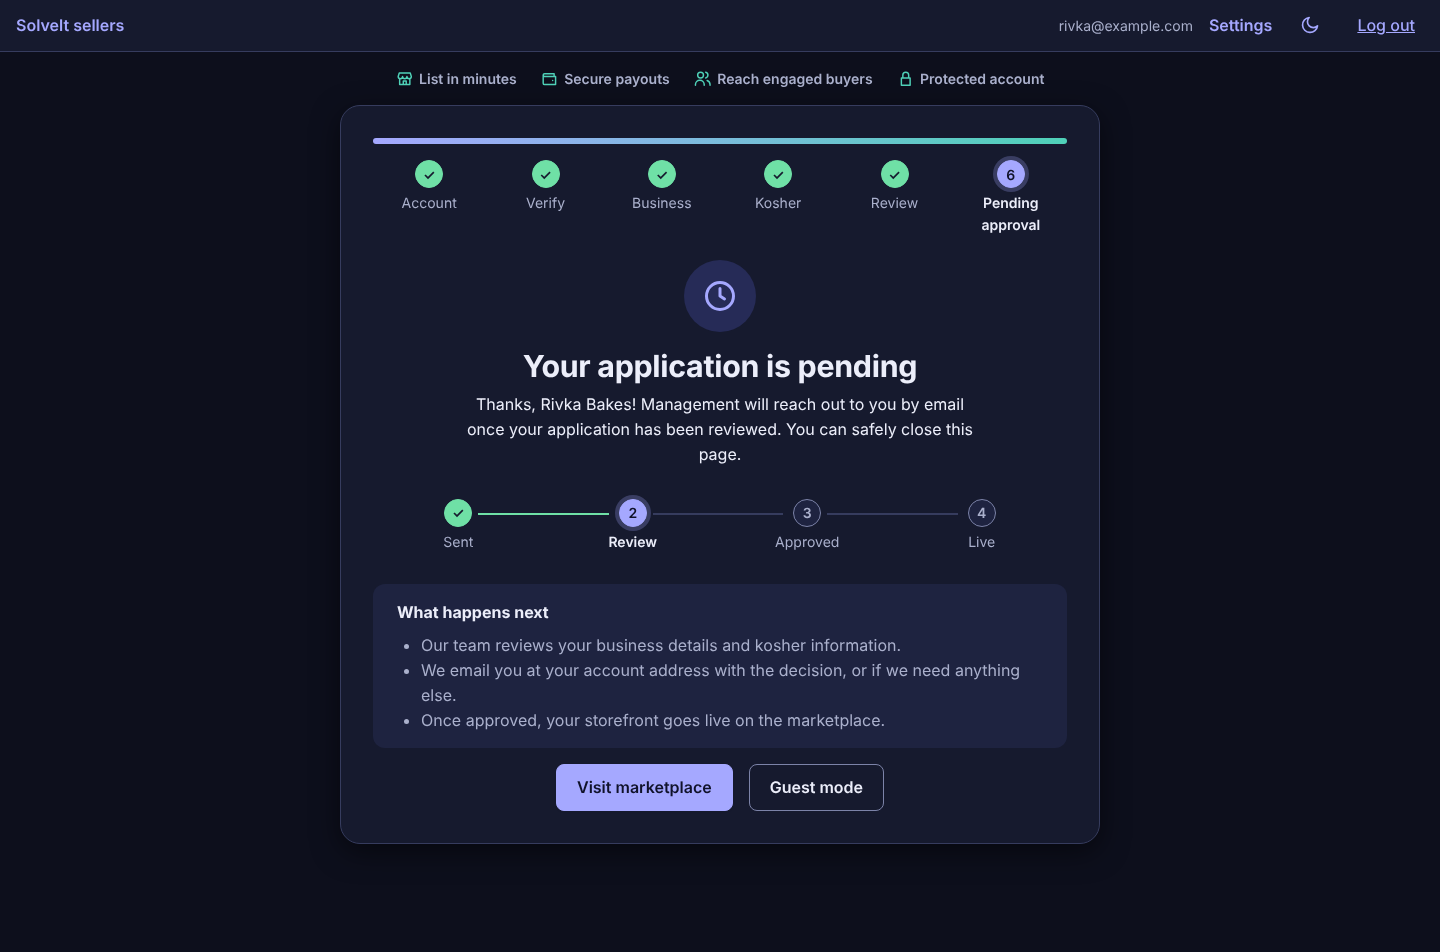
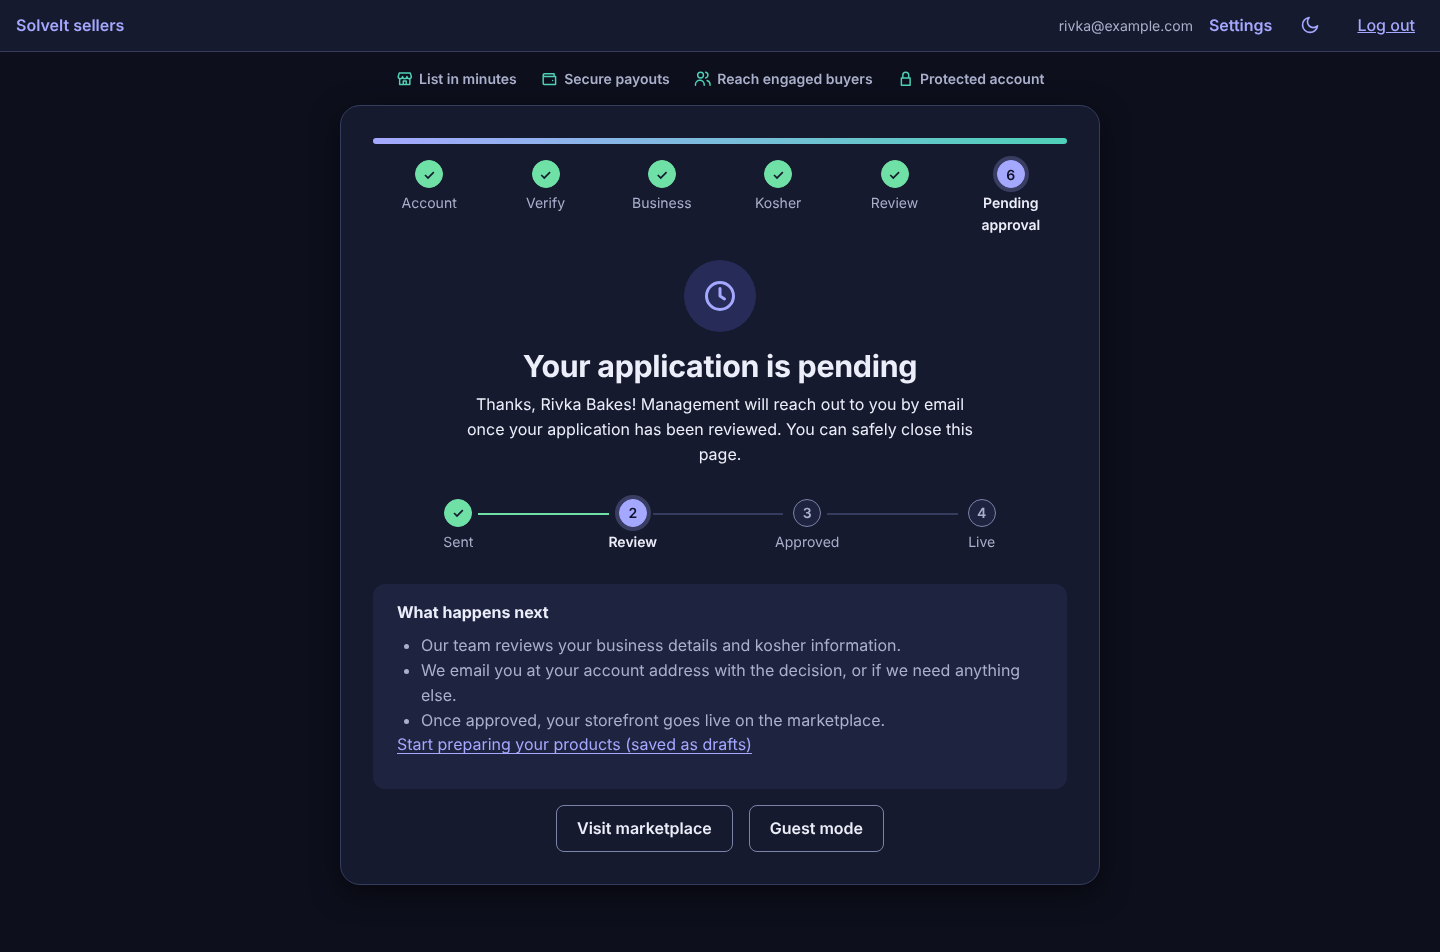
Approved/Live owners land on /products; status-aware pending screen (You're all set / drafts link, accurate copy); tests, e2e, screenshots, docs
Claude-Session: https://claude.ai/code/session_018hZb8p3U4e1ZXzoHRqf6yf

Changed region(s): [[0.25, 0.7616, 0.75, 0.9139]]

diff --git a/src/pages/wizard.test.tsx b/src/pages/wizard.test.tsx
@@ -199,6 +199,59 @@ describe('wizard navigation and guards', () => {
     expect(within(tracker).getByText('Approved').closest('li')).toHaveAttribute('aria-current', 'step')
   })
 
+  describe('pending screen by status', () => {
+    const open = async (status: string, note: string | null = null) => {
+      backend(application({ status, statusNote: note, draftStep: 5 }))
+      renderAt(wizardRoutes, '/signup/pending')
+      await screen.findByRole('heading', { level: 1 })
+    }
+    const productsLinks = () => screen.queryAllByRole('link').filter((l) => l.getAttribute('href') === '/products')
+
+    it('Live: "You\u2019re all set" with the primary products link and the live copy, no "What happens next"', async () => {
+      await open('Live')
+      expect(screen.getByRole('heading', { name: 'Your shop is live' })).toBeInTheDocument()
+      expect(screen.getByText(/Your shop is live on the marketplace/)).toBeInTheDocument()
+      expect(screen.getByRole('heading', { name: /You.re all set/ })).toBeInTheDocument()
+      const go = screen.getByRole('link', { name: 'Go to your products' })
+      expect(go).toHaveAttribute('href', '/products'); expect(go).toHaveClass('primary')
+      expect(screen.queryByRole('heading', { name: 'What happens next' })).not.toBeInTheDocument()
+      expect(screen.queryByRole('link', { name: /Start preparing your products/ })).not.toBeInTheDocument()
+      expect(screen.getByRole('link', { name: 'Visit marketplace' })).not.toHaveClass('primary') // one primary action per page
+    })
+
+    it('Approved: same, but says "approved \u2014 you can now publish", not that the shop is live', async () => {
+      await open('Approved')
+      expect(screen.getByText(/approved \u2014 you can now publish products/)).toBeInTheDocument()
+      expect(screen.queryByText(/shop is live/i)).not.toBeInTheDocument()
+      expect(screen.getByRole('heading', { name: /You.re all set/ })).toBeInTheDocument()
+      expect(screen.getByRole('link', { name: 'Go to your products' })).toHaveAttribute('href', '/products')
+      expect(screen.queryByRole('heading', { name: 'What happens next' })).not.toBeInTheDocument()
+    })
+
+    it('PendingReview: "What happens next" and a secondary drafts link, but no "Go to your products"', async () => {
+      await open('PendingReview')
+      expect(screen.getByRole('heading', { name: 'What happens next' })).toBeInTheDocument()
+      const drafts = screen.getByRole('link', { name: 'Start preparing your products (saved as drafts)' })
+      expect(drafts).toHaveAttribute('href', '/products'); expect(drafts).not.toHaveClass('primary')
+      expect(screen.queryByRole('link', { name: 'Go to your products' })).not.toBeInTheDocument()
+      expect(screen.queryByRole('heading', { name: /You.re all set/ })).not.toBeInTheDocument()
+    })
+
+    it('NeedsInfo sellers are sent back to the wizard (the guard never shows them the pending page)', async () => {
+      backend(application({ status: 'NeedsInfo', statusNote: 'Please upload a certificate', draftStep: 5 }))
+      renderAt(wizardRoutes, '/signup/pending')
+      expect(await screen.findByText('business step')).toBeInTheDocument()
+      expect(screen.queryByRole('link', { name: /products/i })).not.toBeInTheDocument()
+    })
+
+    it.each(['Rejected', 'Suspended'])('%s: no products links at all', async (status) => {
+      await open(status)
+      expect(productsLinks()).toHaveLength(0)
+      expect(screen.queryByRole('link', { name: /products/i })).not.toBeInTheDocument()
+      expect(screen.getByRole('status')).toBeInTheDocument()
+    })
+  })
+
   it('shows a progress bar for the current step', async () => {
     backend(application({ status: 'PendingReview' }))
     renderAt(wizardRoutes, '/signup/pending')

diff --git a/src/pages/wizard/PendingStep.tsx b/src/pages/wizard/PendingStep.tsx
@@ -19,6 +19,7 @@ export default function PendingStep() {
   const { app } = useWizard()
   const idx = trackerIndex(app.status)
   const decided = app.status === 'Approved' || app.status === 'Live'
+  const preparing = app.status === 'PendingReview' || app.status === 'NeedsInfo' // drafts are allowed while the application is in review
   return (
     <StepFrame index={5}>
       <div className="pending-head">
@@ -28,7 +29,9 @@ export default function PendingStep() {
       {app.status === 'Rejected' && <p role="status" className="alert error">Unfortunately your application was not approved.</p>}
       {app.status === 'Suspended' && <p role="status" className="alert error">Your account is suspended.</p>}
       {decided
-        ? <p role="status" className="alert success">Congratulations{app.business.vendorName ? `, ${app.business.vendorName}` : ''}! Your seller application has been approved.</p>
+        ? <p role="status" className="alert success">{app.status === 'Live'
+            ? 'Your shop is live on the marketplace.'
+            : 'You\u2019re approved \u2014 you can now publish products.'}{app.business.vendorName ? ` Welcome, ${app.business.vendorName}!` : ''}</p>
         : <p>Thanks{app.business.vendorName ? `, ${app.business.vendorName}` : ''}! Management will reach out to you by email once your application has been reviewed. You can safely close this page.</p>}
       </div>
       <ol className="tracker" aria-label="Application status">
@@ -38,16 +41,25 @@ export default function PendingStep() {
           </li>
         ))}
       </ol>
-      <div className="next">
-        <h2>What happens next</h2>
-        <ul>
-          <li>Our team reviews your business details and kosher information.</li>
-          <li>We email you at your account address with the decision, or if we need anything else.</li>
-          <li>Once approved, your storefront goes live on the marketplace.</li>
-        </ul>
-      </div>
+      {decided ? (
+        <div className="next">
+          <h2>You&rsquo;re all set</h2>
+          <p>Add your products, check how they look and publish them whenever you&rsquo;re ready.</p>
+          <div className="row"><Link className="btn primary" to="/products">Go to your products</Link></div>
+        </div>
+      ) : (
+        <div className="next">
+          <h2>What happens next</h2>
+          <ul>
+            <li>Our team reviews your business details and kosher information.</li>
+            <li>We email you at your account address with the decision, or if we need anything else.</li>
+            <li>Once approved, your storefront goes live on the marketplace.</li>
+          </ul>
+          {preparing && <p><Link to="/products">Start preparing your products (saved as drafts)</Link></p>}
+        </div>
+      )}
       <div className="row">
-        <a className="btn primary" href={app.marketplaceUrl} target="_blank" rel="noreferrer">Visit marketplace</a>
+        <a className="btn" href={app.marketplaceUrl} target="_blank" rel="noreferrer">Visit marketplace</a>
         <Link className="btn" to="/guest">Guest mode</Link>
       </div>
     </StepFrame>

diff --git a/src/pages/home.test.tsx b/src/pages/home.test.tsx
@@ -1,0 +1,56 @@
+import { describe, expect, it } from 'vitest'
+import { screen } from '@testing-library/react'
+import { http, HttpResponse } from 'msw'
+import { Route, Routes } from 'react-router-dom'
+import Home from './Home'
+import { RequireAuth } from '../components/RequireAuth'
+import { API, server } from '../test/server'
+import { renderAt, signedIn } from '../test/utils'
+
+const A = '11111111-1111-1111-1111-111111111111'
+const routes = (
+  <Routes>
+    <Route element={<RequireAuth />}>
+      <Route path="/" element={<Home />} />
+      <Route path="/products" element={<div>products page</div>} />
+      <Route path="/signup/pending" element={<div>application pending page</div>} />
+      <Route path="/signup/business" element={<div>business step page</div>} />
+    </Route>
+  </Routes>
+)
+const application = (status: string, draftStep = 5) => ({ sellerId: A, status, statusNote: null, draftStep, editable: false })
+const asOwner = (status: string, draftStep?: number) => {
+  signedIn({ sellerId: A, activeAccountId: A, accounts: [{ sellerId: A, vendorName: 'Acme Co', role: 'Owner', accountStatus: status, brandCount: 1 }] })
+  server.use(http.get(`${API}/seller/application`, () => HttpResponse.json(application(status, draftStep))))
+}
+
+describe('Home: where each signed-in user lands', () => {
+  it.each(['Approved', 'Live'])('an Owner whose application is %s lands on the product catalog', async (status) => {
+    asOwner(status)
+    renderAt(routes, '/')
+    expect(await screen.findByText('products page')).toBeInTheDocument()
+    expect(screen.queryByText('application pending page')).not.toBeInTheDocument()
+  })
+
+  it('an Owner still in review lands on the pending screen', async () => {
+    asOwner('PendingReview')
+    renderAt(routes, '/')
+    expect(await screen.findByText('application pending page')).toBeInTheDocument()
+    expect(screen.queryByText('products page')).not.toBeInTheDocument()
+  })
+
+  it('an Owner whose application needs info goes back to the wizard, not the catalog', async () => {
+    asOwner('NeedsInfo')
+    renderAt(routes, '/')
+    expect(await screen.findByText('business step page')).toBeInTheDocument()
+  })
+
+  it('team members (non-Owners) still land on the product catalog without loading the application', async () => {
+    signedIn({ sellerId: A, activeAccountId: A, accounts: [{ sellerId: A, vendorName: 'Acme Co', role: 'Manager', accountStatus: 'Approved', brandCount: 1 }] })
+    let asked = false
+    server.use(http.get(`${API}/seller/application`, () => { asked = true; return HttpResponse.json(application('PendingReview')) }))
+    renderAt(routes, '/')
+    expect(await screen.findByText('products page')).toBeInTheDocument()
+    expect(asked).toBe(false)
+  })
+})

diff --git a/e2e/portal.spec.ts b/e2e/portal.spec.ts
@@ -91,8 +91,14 @@ test('admin approves via API; login, redirect-back and logout', async ({ page, r
   await expect(page).toHaveURL(/\/settings\/security$/)
   await expect(page.getByRole('heading', { name: 'Change password' })).toBeVisible()
   await expectNoSeriousA11y(page)
-  // pending screen shows the Approved stage
+  // an approved owner no longer lands on the pending screen: '/' goes to the product catalog
   await page.goto('/')
+  await expect(page).toHaveURL(/\/products/)
+  // the pending screen is still reachable directly and shows the Approved stage
+  await page.goto('/signup/pending')
+  await expect(page.getByRole('link', { name: 'Go to your products' })).toHaveAttribute('href', '/products')
+  await expect(page.getByRole('heading', { name: 'What happens next' })).toHaveCount(0)
+  await expectNoSeriousA11y(page)
   await expect(page.getByRole('list', { name: 'Application status' }).getByText('Approved').locator('..')).toHaveAttribute('aria-current', 'step')
   // reload keeps the session (refresh cookie); logout ends it
   await page.reload()
@@ -105,7 +111,7 @@ test('admin approves via API; login, redirect-back and logout', async ({ page, r
   await page.goto('/login?next=' + encodeURIComponent('https://evil.example/'))
   await uiLogin(page, s.email)
   await dismissPasskeyOffer(page)
-  await expect(page).toHaveURL(/localhost:5173\/(signup\/pending)?$/)
+  await expect(page).toHaveURL(/localhost:5173\/products/) // safe redirect target is the landing page, which sends an approved owner to the catalog
 })
 
 test('lockout path: 2 tries left, last try + captcha, lock + Locked email', async ({ page, request }) => {

diff --git a/e2e-ui/ui.spec.ts b/e2e-ui/ui.spec.ts
@@ -52,6 +52,8 @@ const screens: { name: string; path: string; authed?: boolean; status?: string; 
   { name: 'phone-link-expired', path: '/l/dead', heading: /this link can.t be used/i },
   { name: 'review', path: '/signup/review', authed: true, status: 'Draft', draftStep: 5, heading: /review your application/i },
   { name: 'pending', path: '/signup/pending', authed: true, heading: /pending/i },
+  { name: 'pending-approved', path: '/signup/pending', authed: true, status: 'Approved', draftStep: 5, heading: /your application is approved/i },
+  { name: 'pending-live', path: '/signup/pending', authed: true, status: 'Live', draftStep: 5, heading: /your shop is live/i },
   { name: 'settings-security', path: '/settings/security', authed: true, heading: /account settings/i, act: async (p) => { await expect(p.getByRole('heading', { name: /passkeys/i }).first()).toBeVisible() } },
 ]
 

diff --git a/src/pages/Home.tsx b/src/pages/Home.tsx
@@ -5,7 +5,7 @@ import { useAuth } from '../auth'
 import { Card, Spinner } from '../components/ui'
 import { stepPath, type Application } from './wizard/shared'
 
-/** Entry after sign-in: routes the seller to the right wizard step / pending screen. */
+/** Entry after sign-in: routes the seller to the right wizard step / pending screen, or to the catalog once approved. */
 export default function Home() {
   const { user, logout } = useAuth()
   const [app, setApp] = useState<Application | null>(null)
@@ -28,5 +28,7 @@ export default function Home() {
     )
   }
   if (!app) return <div className="center"><Spinner /></div>
+  // Approved / Live owners have nothing left to fill in: they work in the product catalog.
+  if (app.status === 'Approved' || app.status === 'Live') return <Navigate to="/products" replace />
   return <Navigate to={stepPath(app)} replace />
 }

diff --git a/docs/DESIGN.md b/docs/DESIGN.md
@@ -64,3 +64,11 @@ Code: `src/products/**` (lazy routes `/products`, `/products/new`, `/products/im
 - Screenshots: `docs/screenshots/products-*.png`, `product-*.png`, `questions-*.png`, `bulk-upload-*.png` (desktop + mobile; the editor also in dark).
 - **CSP and inline styles (verified, not assumed):** React applies `style={{…}}` through the CSSOM (`element.style`), which `style-src` does not block; only `style` attributes in HTML markup and `setAttribute('style')` are blocked. A UI test serves the production build with the README CSP and asserts the wizard progress bar and settings skeleton widths really apply with zero `securitypolicyviolation` events. The QR SVG is injected as markup but uses presentation attributes only (no `style`).
 - **zod and `unsafe-eval`:** zod probes `new Function` to enable JIT validation; a strict CSP reports that probe as a violation even though the error is swallowed. `src/zodConfig.ts` sets `jitless` and is imported first in `main.tsx` (ES imports are hoisted, so setting it after the imports would be too late for schemas built at import time).
+
+## Pending screen and landing by status
+- **Landing (`Home`)**: Owners whose application is `Approved` or `Live` go straight to `/products`; every other status keeps `stepPath(app)` (wizard step or `/signup/pending`). Team members (non-Owners) still go to `/products` without loading the application.
+- **`/signup/pending` is status-aware.** Undecided (`PendingReview`) shows "What happens next" plus a secondary link "Start preparing your products (saved as drafts)", because drafts are allowed while the application is in review. `Approved` and `Live` replace it with a "You're all set" card whose single primary action is **Go to your products**; "Visit marketplace" is always secondary (one primary action per page). `Rejected` and `Suspended` show no products links.
+- **Copy is per status and accurate:** Approved says "You're approved — you can now publish products" and never claims the shop is live; only `Live` says "Your shop is live on the marketplace".
+- `NeedsInfo` never reaches this page: `WizardLayout` sends it back to the business step, so its branch here is defensive only.
+- Open product decision (not changed here): what makes a shop `Live` (first publish, staff action, or no separate state). Status handling stays generic.
+- Tests: `src/pages/wizard.test.tsx` (per-status pending screen), `src/pages/home.test.tsx` (landing), `e2e/portal.spec.ts` (real backend: `/` lands on `/products`, pending page still reachable), and mocked-UI screens `pending-approved` / `pending-live` with axe and screenshots.
